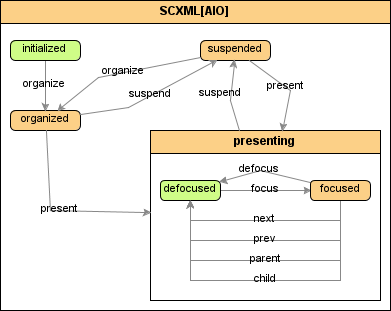
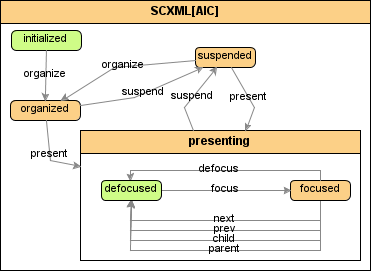
AIC, AIO, AIchoice, AISingleChoiceElement and AISinglePresence statemachines adapted. Still missing AISingleChoiceElement scxml and still unsure about AIC suspending children (left that way only in the ruby statemachine). All tests working.

Changed region(s): [[0.0, 0.0, 1.0, 1.0]]

diff --git a/spec/aisinglechoiceelement_spec.rb b/spec/aisinglechoiceelement_spec.rb
@@ -46,16 +46,16 @@ describe 'SingleChoiceElement' do
     @a.process_event(:organize,callback).should == [:organized]
     callback.called.should == false
 
-    @a.process_event(:present,callback).should == [:defocused, :listed]
-    @a.states.should == [:defocused, :listed]
-    @a.new_states.should == [:defocused, :listed]
+    @a.process_event(:present,callback).should == [:defocused, :unchosen]
+    @a.states.should == [:defocused, :unchosen]
+    @a.new_states.should == [:defocused, :unchosen]
     callback.called.should == false
 
-    @a.process_event(:focus,callback).should == [:focused, :listed]
+    @a.process_event(:focus,callback).should == [:focused, :unchosen]
     @a.new_states.should == [:focused]
     callback.called.should == false
 
-    @a.process_event(:next,callback).should == [:defocused, :listed]
+    @a.process_event(:next,callback).should == [:defocused, :unchosen]
     @a.new_states.should == [:defocused]
     callback.called.should == true
   end
@@ -66,33 +66,33 @@ describe 'SingleChoiceElement' do
     b =  MINT::AIO.first(:name=>"test")
     b.states.should == [:organized]
     b.new_states.should == [:organized]
-    b.process_event(:present).should == [:defocused, :listed]
-    b.new_states.should == [:defocused, :listed]
+    b.process_event(:present).should == [:defocused, :unchosen]
+    b.new_states.should == [:defocused, :unchosen]
 
   end
 
   it 'should recover state after save and reload from inside parallel state' do
     @a.process_event(:organize).should == [:organized]
-    @a.process_event(:present).should == [:defocused, :listed]
-    @a.process_event(:focus).should == [:focused, :listed]
+    @a.process_event(:present).should == [:defocused, :unchosen]
+    @a.process_event(:focus).should == [:focused, :unchosen]
     @a.save!
     b =  MINT::AIO.first(:name=>"test")
-    b.states.should ==[:focused, :listed]
-    b.process_event(:defocus).should == [:defocused, :listed]
+    b.states.should ==[:focused, :unchosen]
+    b.process_event(:defocus).should == [:defocused, :unchosen]
     #b.process_event(:choose).should == [:presented, :choosing]
   end
   it 'should support for query-based selection' do
     @a.process_event(:organize).should == [:organized]
-    @a.process_event(:present).should == [:defocused, :listed]
+    @a.process_event(:present).should == [:defocused, :unchosen]
     @a.save!
-    b =  MINT::AIO.first(:states=>/listed/)
+    b =  MINT::AIO.first(:states=>/unchosen/)
     b.name.should == "test"
     c =  MINT::AIO.first(:states=>/defocused/)
     c.name.should == "test"
   end
   it 'should support for querying for superstates' do
     @a.process_event(:organize).should == [:organized]
-    @a.process_event(:present).should == [:defocused, :listed]
+    @a.process_event(:present).should == [:defocused, :unchosen]
     @a.save!
     puts @a.abstract_states
     b =  MINT::AIO.first(:abstract_states=>/presenting/)

diff --git a/lib/MINT-core/model/aui/AIC.rb b/lib/MINT-core/model/aui/AIC.rb
@@ -8,37 +8,42 @@ module MINT
 
     def initialize_statemachine
       super
+=begin
       parser = StatemachineParser.new(self)
       @statemachine = parser.build_from_scxml "lib/MINT-core/model/aui/aic.scxml"
-#@statemachine = Statemachine.build do
-#        superstate :AIO do
-#          trans :initialized,:organize, :organized
-#          trans :organized, :present, :presenting
-#          trans :suspended,:present, :presenting, :present_children
-#
-#          state :suspended do
-#            on_entry :sync_cio_to_hidden
-#          end
-#
-#          superstate :presenting do
-#            event :suspend, :suspended, :hide_children
-#
-#            state :defocused do
-#              on_entry :sync_cio_to_displayed
-#            end
-#            state :focused do
-#              on_entry :sync_cio_to_highlighted
-#            end
-#            trans :defocused,:focus,:focused
-#            trans :focused,:defocus, :defocused
-#            trans :focused, :next, :defocused, :focus_next,  Proc.new { exists_next}
-#            trans :focused, :prev, :defocused, :focus_previous, Proc.new { exists_prev}
-#            trans :focused, :parent, :defocused, :focus_parent
-#            trans :focused, :child, :defocused, :focus_child
-#
-#          end
-#        end
-#      end
+=end
+@statemachine = Statemachine.build do
+        superstate :AIC do
+          trans :initialized,:organize, :organized
+          trans :organized, :present, :presenting
+          trans :organized, :suspend, :suspended
+          trans :suspended, :present, :presenting
+          trans :suspended, :organize, :organized
+
+          state :suspended do
+            on_entry :sync_cio_to_hidden
+          end
+
+          superstate :presenting do
+            on_entry :inform_parent_presenting
+            event :suspend, :suspended, :hide_children #TODO AIC will suspend children?
+
+            state :defocused do
+              on_entry :sync_cio_to_displayed
+            end
+            state :focused do
+              on_entry :sync_cio_to_highlighted
+            end
+            trans :defocused,:focus,:focused
+            trans :focused,:defocus, :defocused
+            trans :focused, :next, :defocused, :focus_next,  Proc.new { exists_next}
+            trans :focused, :prev, :defocused, :focus_previous, Proc.new { exists_prev}
+            trans :focused, :parent, :defocused, :focus_parent
+            trans :focused, :child, :defocused, :focus_child
+
+          end
+        end
+      end
     end
 
     def hide_children

diff --git a/lib/MINT-core/model/aui/AISingleChoiceElement.rb b/lib/MINT-core/model/aui/AISingleChoiceElement.rb
@@ -6,8 +6,16 @@ module MINT
 
 #          superstate :AIO do # TODO not supported so far!
           trans :initialized,:organize, :organized
-          trans :organized, :present, :p
+          trans :organized, :present, :p_t
+          trans :organized, :suspend, :suspended
+          trans :suspended, :present, :p_t
+          trans :suspended, :organize, :organized
+          state :suspended do
+            on_entry :sync_cio_to_hidden
+          end
+
           superstate :p_t do
+            event :suspend, :suspended
             parallel :p do
               statemachine :s1 do
                 superstate :presenting do
@@ -22,32 +30,21 @@ module MINT
                   trans :focused, :next, :defocused, :focus_next,  Proc.new { exists_next}
                   trans :focused, :prev, :defocused, :focus_previous, Proc.new { exists_prev}
                   trans :focused, :parent, :defocused, :focus_parent
-                  trans :suspended,:present, :defocused    # suspended is inside the presenting state, as it still can be in dragging mode during it is switched to suspended
-                  state :suspended do
-                    on_entry :sync_cio_to_hidden
-                  end
-                  event :suspend, :suspended
-
+                  trans :focused, :drag, :dragging, nil, Proc.new{ In(:chosen) }
+                  trans :focused, :drag, :dragging, :choose, Proc.new { In(:unchosen)}
+                  trans :dragging, :drop, :defocused
                 end
               end
               statemachine :s2 do
-                superstate :choice do
-                  trans :listed, :choose, :chosen
-                  trans :chosen, :unchoose, :listed
-
-                  trans :listed,  :drag, :dragging
-                  trans :dragging, :drop, :dropped #, :remove_from_origin
-                  trans :dropped, :list, :listed
-                  trans :dropped, :drag, :dragging
-
+                superstate :selection_H do
+                  state :unchosen do
+                    on_entry :sync_cio_to_listed
+                    event :choose, :chosen
+                  end
                   state :chosen do
                     on_entry [:sync_cio_to_selected,:unchoose_others]
+                    event :unchoose, :unchosen
                   end
-
-                  state :listed do
-                    on_entry :sync_cio_to_listed
-                  end
-
                 end
               end
             end

diff --git a/spec/aisinglechoice_spec.rb b/spec/aisinglechoice_spec.rb
@@ -61,23 +61,24 @@ describe 'SingleChoice' do
       @e4.process_event(:present)
     end
     it 'should deactivate other chosen elements on choose' do
-
-      @e1.process_event(:focus).should == [:focused, :listed]
+      @e1.process_event(:focus).should == [:focused, :unchosen]
       @e1.new_states.should == [:focused]
 
       @e1.process_event(:choose).should == [:focused, :chosen]
       @e2.process_event(:choose).should == [:defocused, :chosen]
 
+
       # TODO: state actualization should be done withnt :suspend, out re-querying?
       @e1 = MINT::AISingleChoiceElement.first(:name => "element_1")
-      @e1.states.should == [:focused, :listed]
+      @e1.states.should == [:focused, :unchosen]
+
     end
 
     it 'should hide child elements on suspend' do
       sc =MINT::AISingleChoice.first(:name => "choice")
       sc.process_event(:suspend).should == [:suspended]
       e1 = MINT::AISingleChoiceElement.first(:name => "element_1")
-      e1.states.should == [:suspended, :listed]
+      e1.states.should == [:suspended]
     end
 
     it 'should hide if suspend is called from parent AIC' do
@@ -87,7 +88,7 @@ describe 'SingleChoice' do
 
       aic.process_event(:suspend).should == [:suspended]
       e1 = MINT::AISingleChoiceElement.first(:name => "element_1")
-      e1.states.should == [:suspended,:listed]
+      e1.states.should == [:suspended]
     end
 
     it "should sync suspend to CUI"   do
@@ -104,7 +105,7 @@ describe 'SingleChoice' do
 
       aic.process_event(:suspend).should == [:suspended]
       e1 = MINT::AISingleChoiceElement.first(:name => "element_1")
-      e1.states.should == [:suspended,:listed]
+      e1.states.should == [:suspended]
 
       s4=MINT::Selectable.first(:name =>"element_4")
       s4.states.should ==[:hidden]

diff --git a/lib/MINT-core/model/aui/AIChoice.rb b/lib/MINT-core/model/aui/AIChoice.rb
@@ -2,22 +2,27 @@ module MINT
   class AIChoice < AIC
     def initialize_statemachine
       if @statemachine.blank?
+=begin
         parser = StatemachineParser.new(self)
         @statemachine = parser.build_from_scxml "lib/MINT-core/model/aui/aichoice.scxml"
-=begin
+=end
  @statemachine = Statemachine.build do
           trans :initialized,:organize, :organized
           trans :organized, :present, :p_t
-          trans :suspended,:present, :p_t, :present_children
+          trans :organized, :suspend, :suspended
+          trans :suspended, :present, :p_t
+          trans :suspended, :organize, :organized
           state :suspended do
             on_entry :sync_cio_to_hidden
           end
 
           superstate :p_t do     # TODO artificial superstate required to get following event working!
-            event :suspend, :suspended, :hide_children
+            event :suspend, :suspended
             parallel :p do
               statemachine :s1 do
                 superstate :presenting do
+                on_entry [:present_child, :inform_parent_presenting]
+                on_exit :hide_children
                   state :defocused do
                     on_entry :sync_cio_to_displayed
                   end
@@ -40,7 +45,6 @@ module MINT
             end
           end
         end
-=end
       @statemachine.reset
       end
     end

diff --git a/lib/MINT-core/model/cui/gfx/model.rb b/lib/MINT-core/model/cui/gfx/model.rb
@@ -10,7 +10,7 @@ module MINT
   end
 
   class Selectable_sync_callback < CIO_sync_callback
-    def sync_aio_to_listed
+    def sync_aio_to_unchosen
       true
     end
 
@@ -65,7 +65,7 @@ module MINT
                   trans :selected, :select, :listed
 
                   state :listed do
-                    on_entry :sync_aio_to_listed
+                    on_entry :sync_aio_to_unchosen
                   end
 
                   state :selected  do
@@ -83,9 +83,9 @@ module MINT
       process_event(event, Selectable_sync_callback.new)
     end
 
-    def sync_aio_to_listed
+    def sync_aio_to_unchosen
       aio =  MINT::AIINChoose.first(:name=>self.name)
-      if (aio and not aio.is_in? :listed)
+      if (aio and not aio.is_in? :unchosen)
         aio.sync_event(:unchoose)
       end
       true
@@ -169,7 +169,7 @@ module MINT
                   trans :selected, :select, :listed
 
                   state :listed do
-                    on_entry :sync_aio_to_listed
+                    on_entry :sync_aio_to_unchosen
                   end
 
                   state :selected  do

diff --git a/lib/MINT-core/model/aui/AIO.rb b/lib/MINT-core/model/aui/AIO.rb
@@ -31,6 +31,7 @@ module MINT
             trans :organized, :present, :presenting
             trans :organized, :suspend, :suspended
             trans :suspended,:present, :presenting
+            trans :suspended, :organize, :organized
             state :suspended do
                on_entry :sync_cio_to_hidden
               end

diff --git a/lib/MINT-core/model/aui/AISinglePresence.rb b/lib/MINT-core/model/aui/AISinglePresence.rb
@@ -15,7 +15,8 @@ module MINT
 
           superstate :presenting do
             on_entry :present_first_child
-            event :suspend, :suspended, :hide_children
+            on_exit :hide_children
+            event :suspend, :suspended
 
             state :defocused do
               on_entry :sync_cio_to_displayed

diff --git a/lib/MINT-core/model/aui/AIINChoose.rb b/lib/MINT-core/model/aui/AIINChoose.rb
@@ -46,7 +46,7 @@ module MINT
      def unchoose_others
        aios = self.parent.childs.all(:states=>/chosen/)
        aios.each do |aio|
-         aio.process_event("unchoose") if not aio.is_in? :listed
+         aio.process_event("unchoose") if not aio.is_in? :unchosen
        end
      end
    end

diff --git a/spec/AISinglePresence_spec.rb b/spec/AISinglePresence_spec.rb
@@ -16,7 +16,7 @@ describe 'AUI' do
   end
 
   describe 'AISinglePresence' do
-    it 'should initialize with initiated' do
+it 'should initialize with initiated' do
       @a.states.should ==[:initialized]
       @a.new_states.should == [:initialized]
     end
